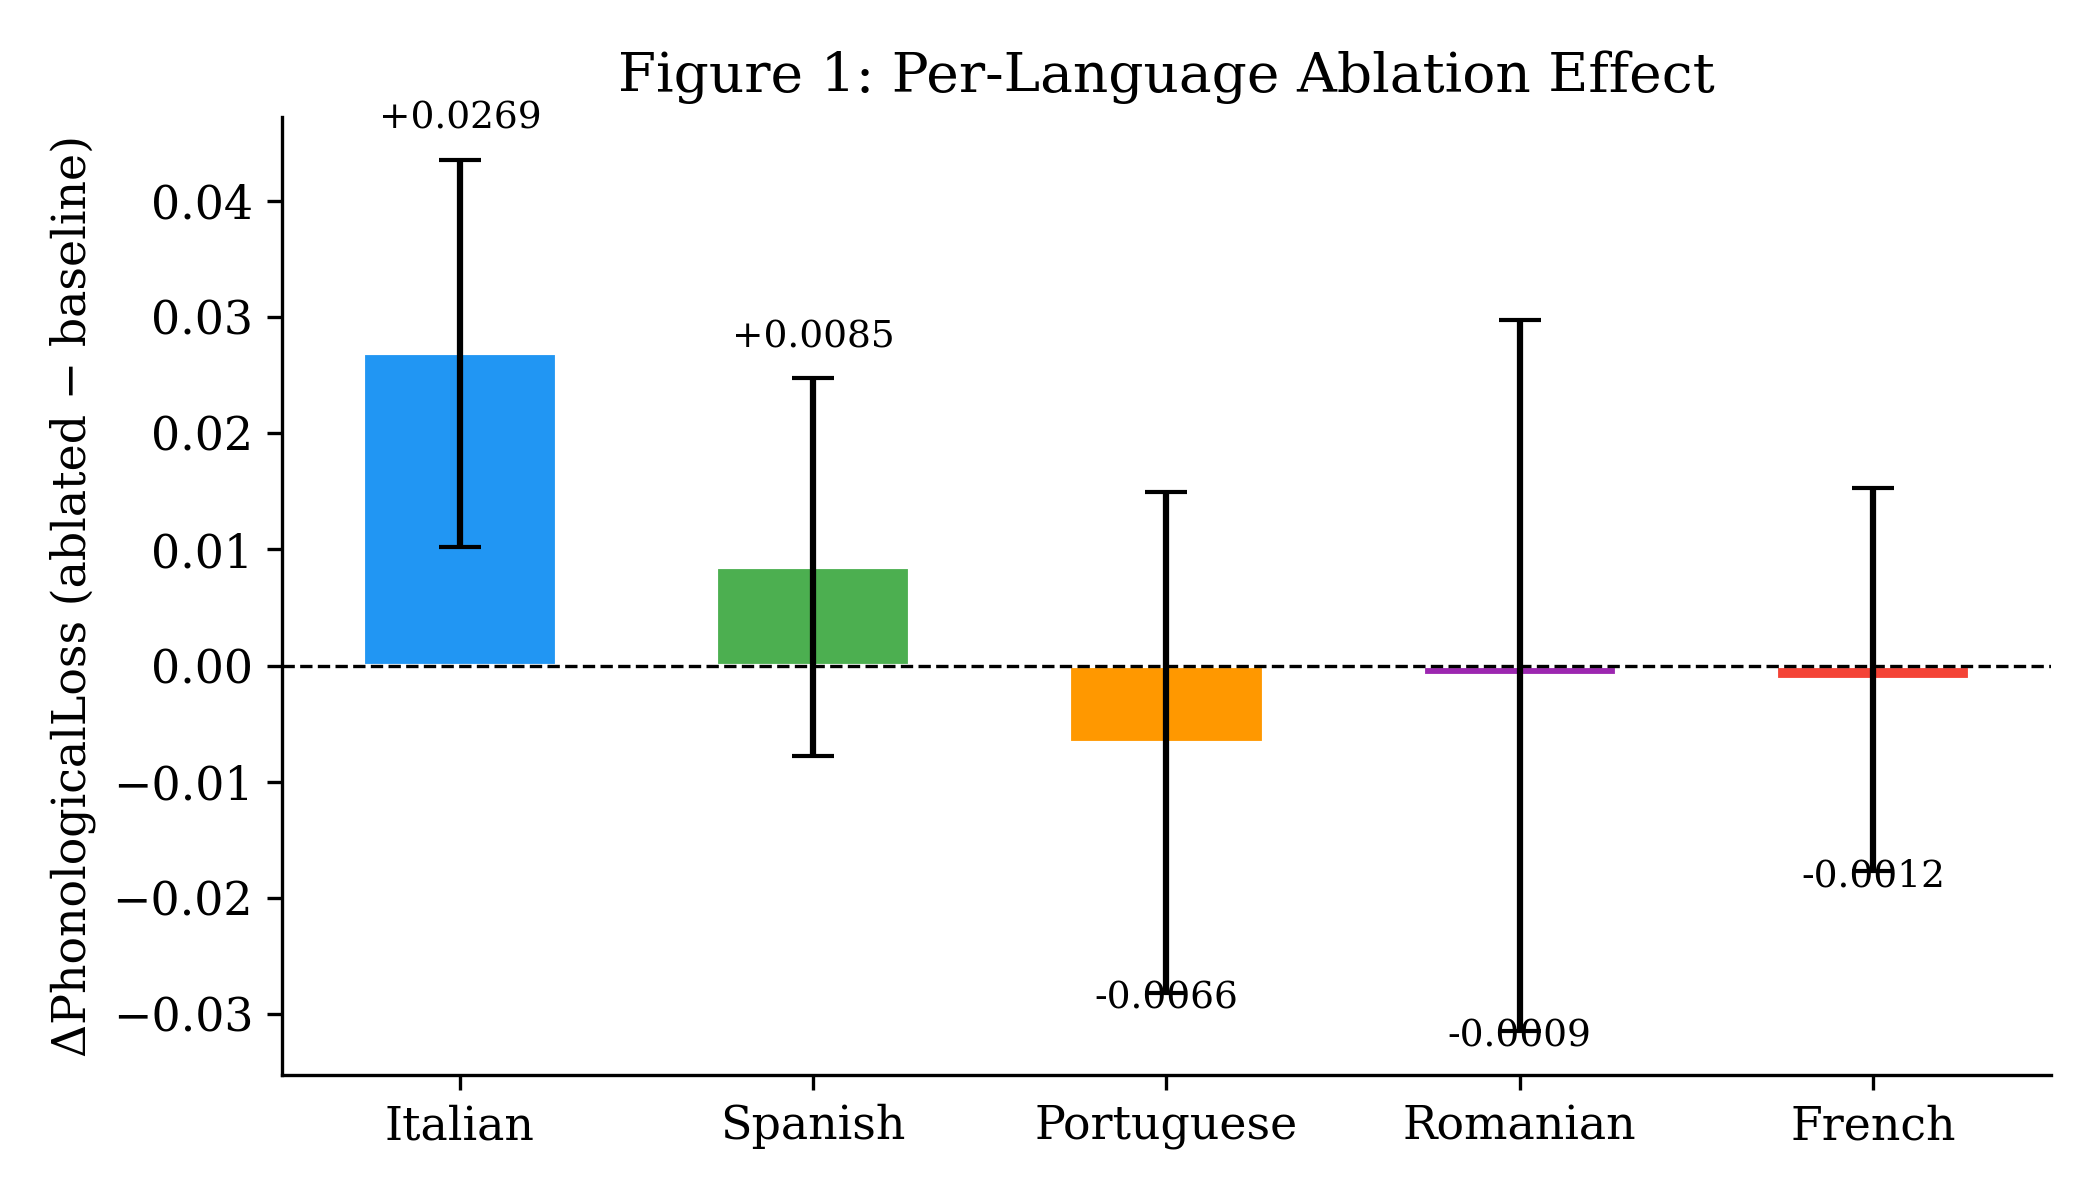
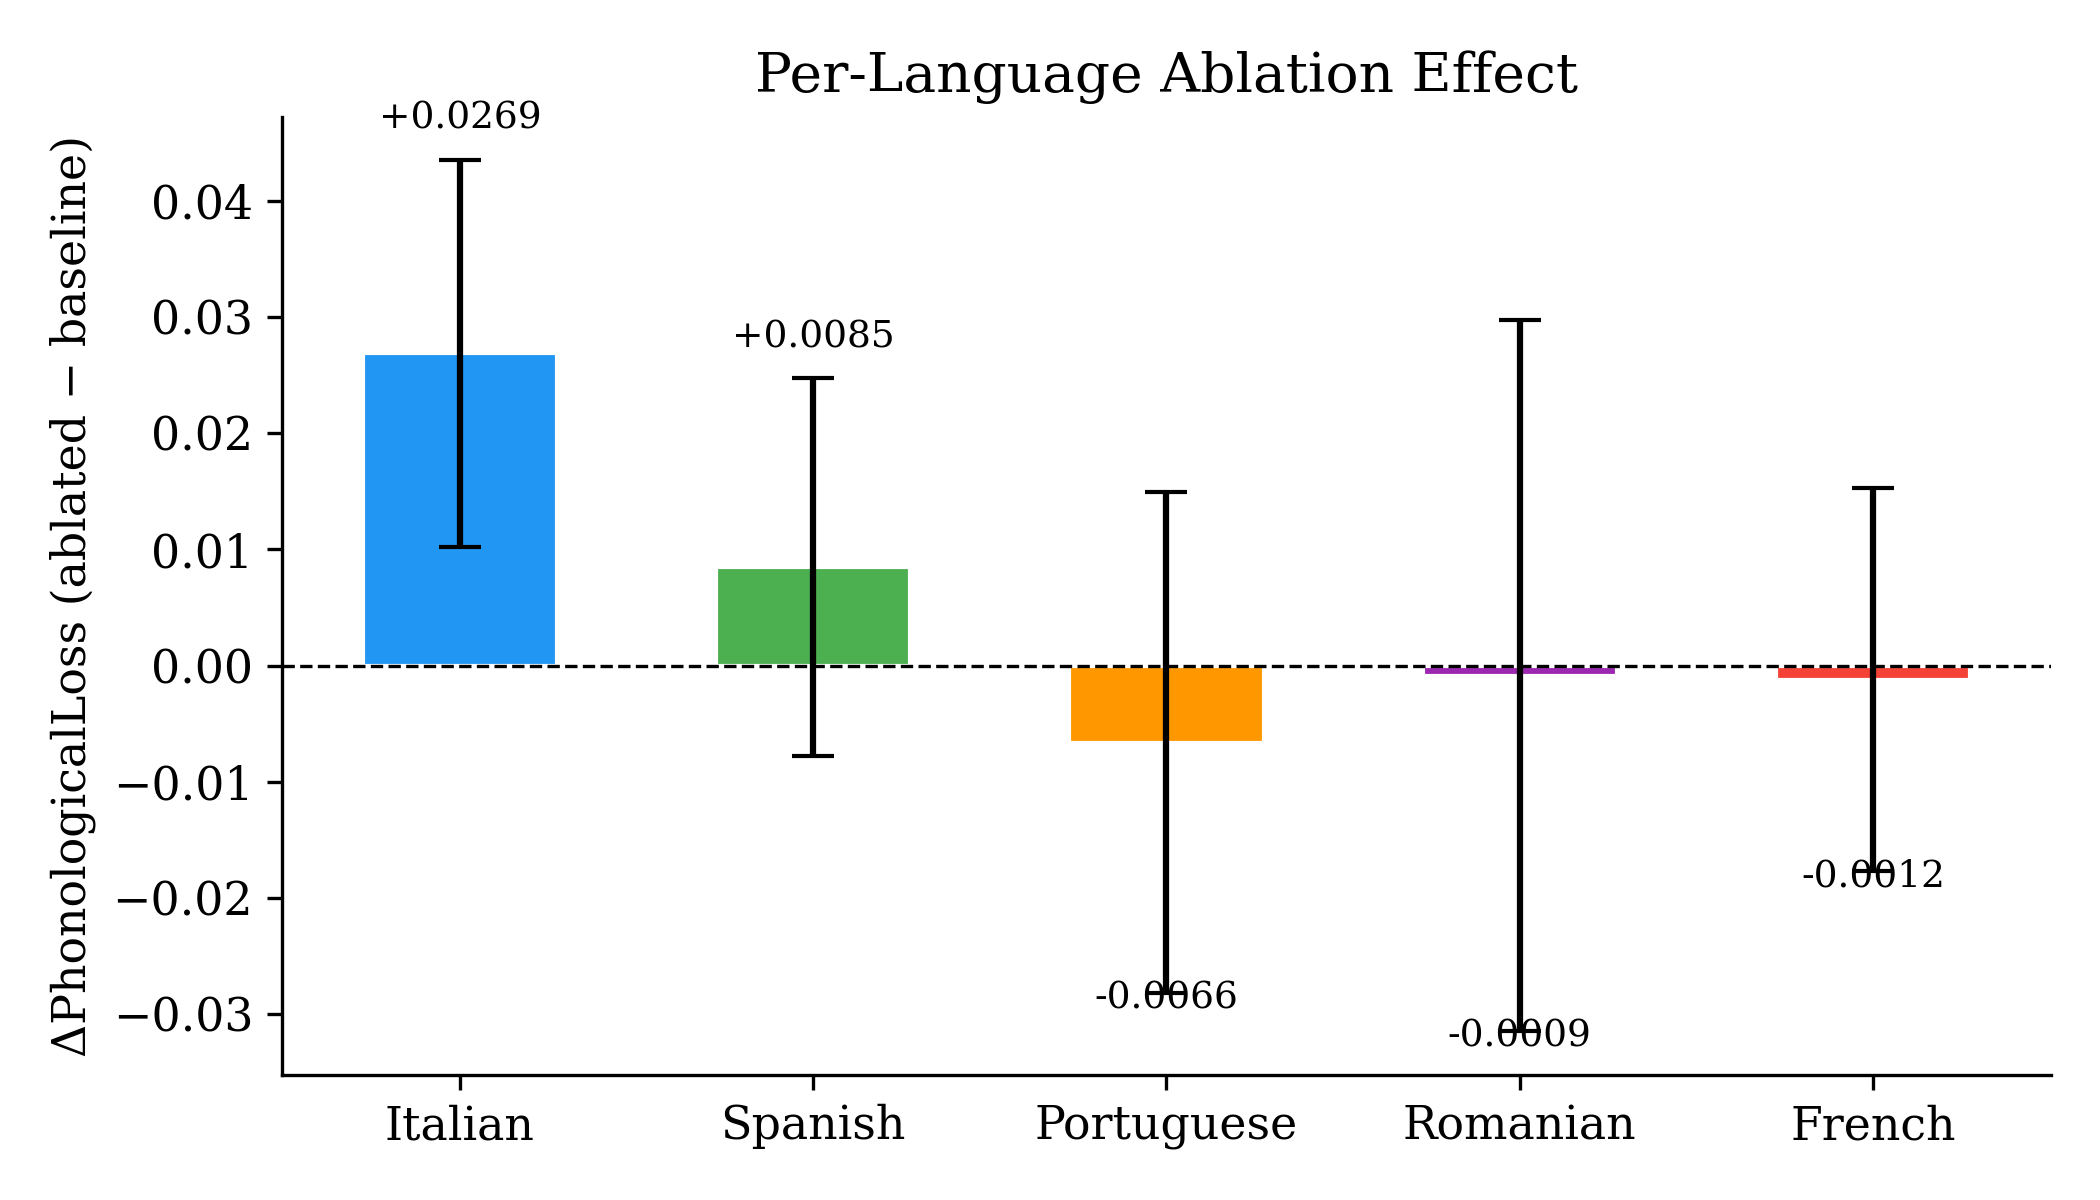
edited figures

Changed region(s): [[0.2786, 0.0308, 0.8048, 0.0925]]

diff --git a/generate_figures.py b/generate_figures.py
@@ -97,7 +97,7 @@ def fig_ablation_delta():
     ax.set_xticks(xs)
     ax.set_xticklabels(LANG_ORDER)
     ax.set_ylabel("ΔPhonologicalLoss (ablated − baseline)")
-    ax.set_title("Figure 1: Per-Language Ablation Effect")
+    ax.set_title("Per-Language Ablation Effect")
     for bar, d, s in zip(bars, deltas, stds):
         ax.text(bar.get_x() + bar.get_width()/2,
                 d + (s + 0.002) * np.sign(d) if d != 0 else 0.002,
@@ -127,7 +127,7 @@ def fig_ablation_folds():
     ax.set_xticklabels(["Baseline", "Italian ablated"])
     ax.set_xlim(-0.15, 1.15)
     ax.set_ylabel("PhonologicalLoss")
-    ax.set_title("Figure 2: Per-Fold Loss — Baseline vs. Italian Ablated")
+    ax.set_title("Per-Fold Loss — Baseline vs. Italian Ablated")
     rise = mpatches.Patch(color="#2196F3", alpha=0.6, label="Loss increased (expected)")
     drop = mpatches.Patch(color="#F44336", alpha=0.6, label="Loss decreased (unexpected)")
     ax.legend(handles=[rise, drop], fontsize=9)
@@ -148,8 +148,7 @@ def fig_attention_bar():
     ax.set_xticks(xs)
     ax.set_xticklabels(LANG_ORDER)
     ax.set_ylabel("Mean Attention Weight")
-    ax.set_title("Figure 3: Mean Decoder Attention by Language\n"
-                 "(ordered by conservatism, most → least)")
+    ax.set_title("Mean Decoder Attention by Language")
     for i, (m, s) in enumerate(zip(means, stds)):
         ax.text(i, m + s + 0.005, f"{m:.3f}", ha="center", fontsize=9)
     fig.tight_layout()
@@ -166,7 +165,7 @@ def fig_attention_heatmap():
     ax.set_xticklabels(LANG_ORDER)
     ax.set_yticks(range(10))
     ax.set_yticklabels([f"Fold {i+1}" for i in range(10)])
-    ax.set_title("Figure 4: Fold-Level Attention Weights by Language")
+    ax.set_title("Fold-Level Attention Weights by Language")
     for i in range(10):
         for j in range(len(LANG_ORDER)):
             ax.text(j, i, f"{fw[i,j]:.3f}", ha="center", va="center",
@@ -197,8 +196,7 @@ def fig_tier_kappas():
     ax.set_xticklabels(tiers)
     ax.set_ylabel("Cohen's κ")
     ax.set_ylim(0, 0.85)
-    ax.set_title("Figure 5: Tier Reconstruction Accuracy — Model vs. Baselines\n"
-                 "(model at oracle threshold; baselines at fixed threshold=0.5)")
+    ax.set_title("Tier Reconstruction Accuracy — Model vs. Baselines")
     ax.legend(fontsize=9)
     fig.tight_layout()
     fig.savefig("fig5_tier_kappas.png", dpi=300)
@@ -217,8 +215,7 @@ def fig_feature_f1():
     ax.set_xticks(xs)
     ax.set_xticklabels(FEAT_NAMES, rotation=45, ha="right", fontsize=9)
     ax.set_ylabel("Macro-F1 (threshold=0.5)")
-    ax.set_title("Figure 6: Per-Feature Reconstruction F1\n"
-                 "(grey = degenerate, excluded from substantive mean)")
+    ax.set_title("Per-Feature Reconstruction F1")
     ax.axhline(1.0, color="black", linewidth=0.6, linestyle="--", alpha=0.4)
 
     # Tier boundary markers
